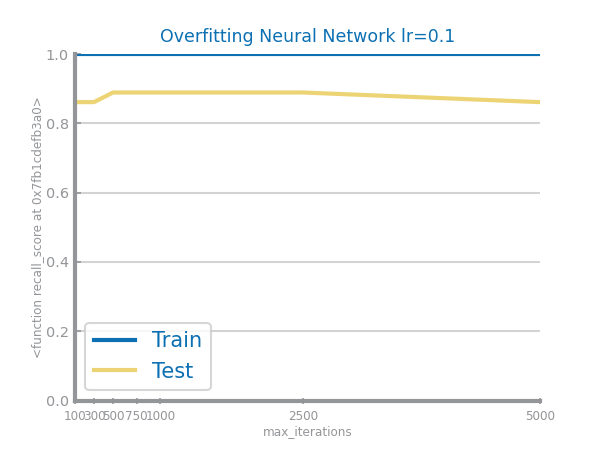
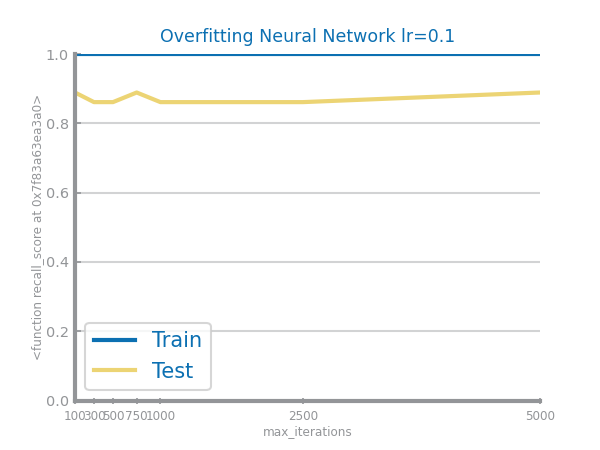
nn updated loss and decresed lr for set2

Changed region(s): [[0.12, 0.1867, 0.69, 0.2489], [0.03, 0.2178, 0.09, 0.7778], [0.72, 0.1867, 0.9, 0.2489]]

diff --git a/lab07_neural_nets_and_gradient_boosting/set2_mlps.py b/lab07_neural_nets_and_gradient_boosting/set2_mlps.py
@@ -2,7 +2,7 @@ from numpy import ndarray
 from pandas import DataFrame, read_csv, unique
 from matplotlib.pyplot import figure, subplots, savefig, show
 from sklearn.neural_network import MLPClassifier
-from ds_charts import plot_evaluation_results, multiple_line_chart, horizontal_bar_chart, HEIGHT
+from ds_charts import plot_evaluation_results, multiple_line_chart, horizontal_bar_chart, HEIGHT, plot_line
 from sklearn.metrics import recall_score
 from ds_charts import plot_overfitting_study
 
@@ -24,8 +24,8 @@ tstY: ndarray = test.pop(target).values
 tstX: ndarray = test.values
 
 lr_type = ['constant', 'invscaling', 'adaptive']
-max_iter = [100, 300, 500, 750, 1000, 2500, 5000]
-learning_rate = [.1, .5, .9]
+max_iter = [1000, 2500, 5000, 7500, 10000]
+learning_rate = [.01, .05, .09]
 best = ('', 0, 0)
 last_best = 0
 best_model = None
@@ -68,6 +68,9 @@ print(f'Best results with lr_type={best[0]}, learning rate={best[1]} and {best[2
 
 path_img = f'lab07_neural_nets_and_gradient_boosting/images/{file_tag}/{file_tag}_nn_overfit.png'
 plot_overfitting_study(max_iter, y_trn_values, y_tst_values, name=f'Neural Network lr={best[1]}', xlabel='max_iterations', ylabel=str(eval_metric), path_img=path_img)
+loss = best_model.loss_curve_
+plot_line(xvalues=[i for i in range(len(loss))], yvalues=loss, xlabel='iterations', ylabel='loss', title='Loss function')
+savefig(f'lab07_neural_nets_and_gradient_boosting/images/{file_tag}/{file_tag}_nn_loss.png')
 show()
 
 prd_trn = best_model.predict(trnX)

diff --git a/lab07_neural_nets_and_gradient_boosting/set1_mlps.py b/lab07_neural_nets_and_gradient_boosting/set1_mlps.py
@@ -2,7 +2,7 @@ from numpy import ndarray
 from pandas import DataFrame, read_csv, unique
 from matplotlib.pyplot import figure, subplots, savefig, show
 from sklearn.neural_network import MLPClassifier
-from ds_charts import plot_evaluation_results, multiple_line_chart, horizontal_bar_chart, HEIGHT
+from ds_charts import plot_evaluation_results, multiple_line_chart, horizontal_bar_chart, HEIGHT, plot_line
 from sklearn.metrics import recall_score
 from ds_charts import plot_overfitting_study
 
@@ -68,8 +68,10 @@ print(f'Best results with lr_type={best[0]}, learning rate={best[1]} and {best[2
 
 path_img = f'lab07_neural_nets_and_gradient_boosting/images/{file_tag}/{file_tag}_nn_overfit.png'
 plot_overfitting_study(max_iter, y_trn_values, y_tst_values, name=f'Neural Network lr={best[1]}', xlabel='max_iterations', ylabel=str(eval_metric), path_img=path_img)
+loss = best_model.loss_curve_
+plot_line(xvalues=[i for i in range(len(loss))], yvalues=loss, xlabel='iterations', ylabel='loss', title='Loss function')
+savefig(f'lab07_neural_nets_and_gradient_boosting/images/{file_tag}/{file_tag}_nn_loss.png')
 show()
-
 prd_trn = best_model.predict(trnX)
 prd_tst = best_model.predict(tstX)
 plot_evaluation_results(labels, trnY, prd_trn, tstY, prd_tst)
